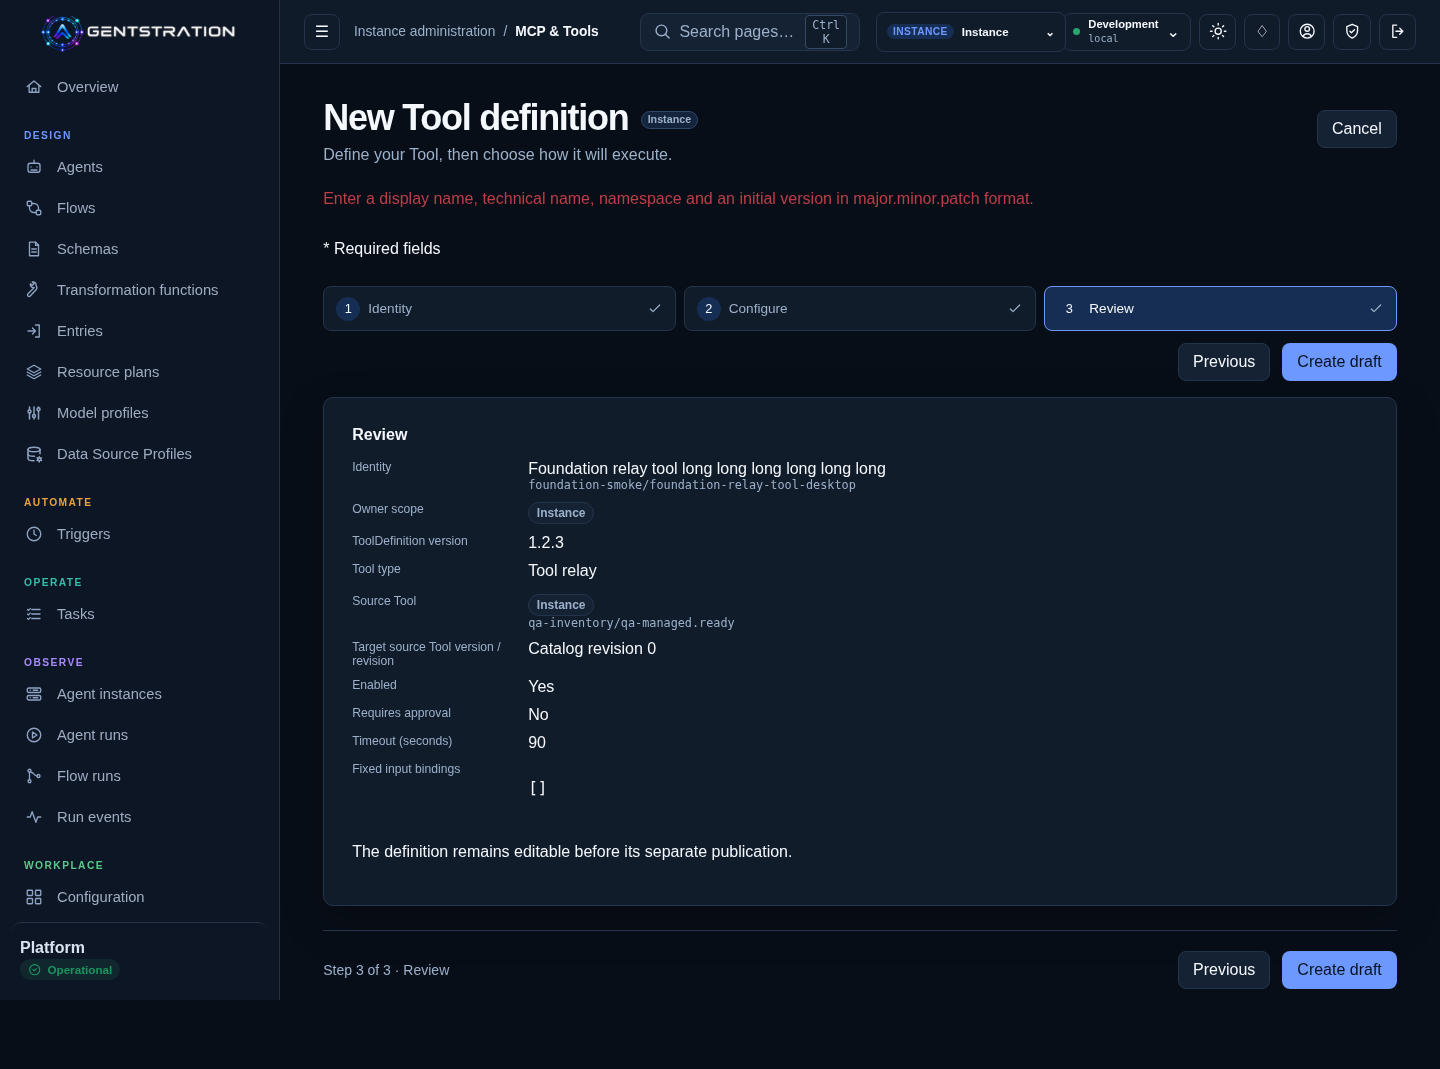
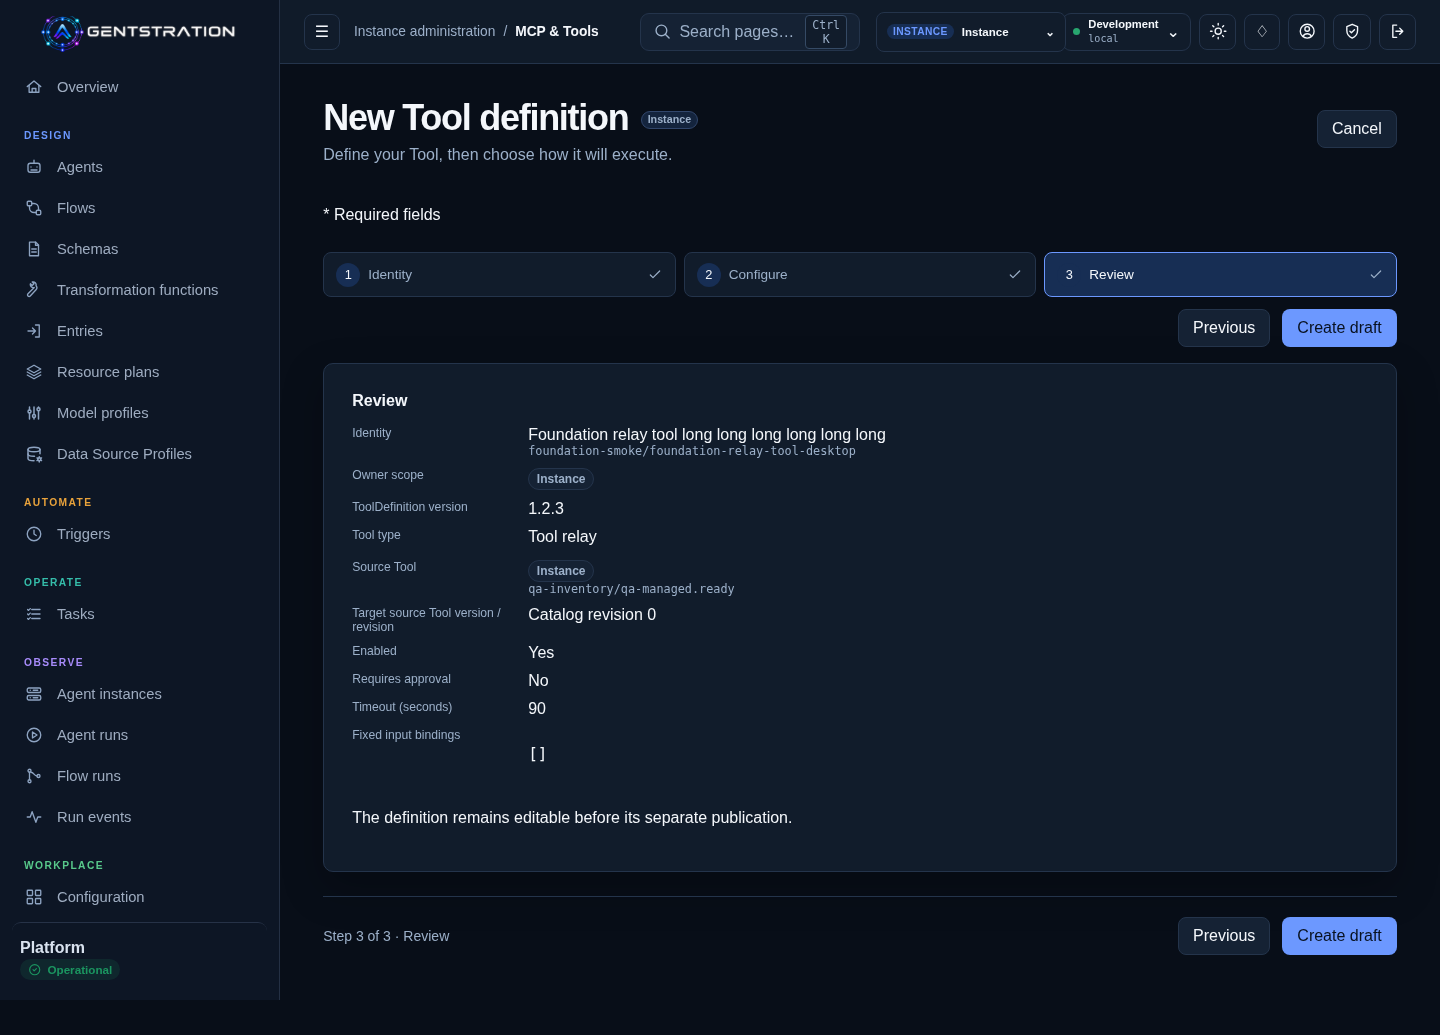
fix(console): clear repaired wizard identity feedback

diff --git a/tests/Agentstration.Console.Components.Tests/NewToolDefinitionTests.cs b/tests/Agentstration.Console.Components.Tests/NewToolDefinitionTests.cs
@@ -157,6 +157,7 @@ public sealed class NewToolDefinitionTests
         Assert.IsTrue(rendered.FindAll("[data-testid='tool-definition-identity']").Count == 1);
         Assert.HasCount(0, api.Requests);
         Identity(rendered);
+        Assert.HasCount(0, rendered.FindAll("[role='alert']"));
         rendered.Find("[data-testid='tool-definition-initial-version']").Change("2.01.0");
         await CreateAsync(rendered);
         Assert.AreEqual("identity", rendered.FindComponent<CreationWizard>().Instance.CurrentStepId);

diff --git a/docs/ux/evidence/resource-screen-foundation/new-tool-definition/README.md b/docs/ux/evidence/resource-screen-foundation/new-tool-definition/README.md
@@ -2,13 +2,13 @@
 
 Creation keeps its dedicated CreationWizard and standard ResourceIdentityFields. The Flow and Relay editors, freely reachable incomplete steps, retained inputs/dialogs, namespace/name/selected owner, exact published-Flow contracts and pinned Tool targets remain family-owned. No persisted-resource template, metadata write or automatic publication is invented.
 
-The native fieldset, wizard and both final command paths now require interactive rendering and resources/write. Known denied users receive the existing common permission notice; missing scope retains the existing scope feedback. The creation path cannot load configuration sources or write before interactivity. Context/ownership changes still clear the previous source/contracts and preserve the existing guarded navigation. The test administrator fixture now explicitly declares read/write permissions; the reader fixture has read only.
+The native fieldset, wizard and both final command paths now require interactive rendering and resources/write. Known denied users receive the existing common permission notice; missing scope retains the existing scope feedback. The creation path cannot load configuration sources or write before interactivity. Identity-validation feedback derives from the model’s current completeness after a final validation request, so correcting fields removes obsolete identity errors without clearing separate source/command failures. Context/ownership changes still clear the previous source/contracts and preserve the existing guarded navigation. The test administrator fixture now explicitly declares read/write permissions; the reader fixture has read only.
 
 Validation:
 
-- **33 focused NewToolDefinitionTests and ToolDefinitionConsoleTests pass**, including all three owner kinds for both implementations, context changes/loading, exact namespaces/source references, published schema inspection, retained relay bindings/dialogs and no-publication semantics, plus new prerender/reader guards. The asynchronous reader test waits for the actual rendered form rather than assuming context is synchronous; no timeout is increased or assertion removed.
+- **33 focused NewToolDefinitionTests and ToolDefinitionConsoleTests pass**, including all three owner kinds for both implementations, context changes/loading, exact namespaces/source references, published schema inspection, retained relay bindings/dialogs and no-publication semantics, plus new prerender/reader guards. Both EN/FR identity-repair assertions failed before the feedback correction and now pass; final browser probes also assert that no stale alert remains on Review. The asynchronous reader test waits for the actual rendered form rather than assuming context is synchronous; no timeout is increased or assertion removed.
 - Component/test and actual Web, Workplace and GovernedInventoryHost Release builds have zero warnings/errors. No shared product component or protected Agent source/style/translation changes; the preceding Agent regression evidence remains unchanged.
-- Both actual application probes pass: EN/dark desktop and FR/light native touch. Each creates a Flow-backed definition from the existing fixture's exact published namespace/owner/version and a Relay using the fixture Tool's exact UID/generation/namespace/owner. They retain fields across wizard navigation, return incomplete final submission to Identity, preserve the selected context in the destination and verify empty publication history through the API. Each capture asserts document width. [Exact tested source/actual-host hashes and results](source-proof.json).
+- Both actual application probes pass: EN/dark desktop and FR/light native touch. Each creates a Flow-backed definition from the existing fixture's exact published namespace/owner/version and a Relay using the fixture Tool's exact UID/generation/namespace/owner. They retain fields across wizard navigation, return incomplete final submission to Identity, preserve the selected context in the destination and verify empty publication history through the API. Each capture asserts document width. [Exact tested source/actual-host hashes and results](source-proof.json). The [initial adoption proof](initial-adoption-proof.json) is retained; displayed captures are from the final feedback-corrected campaign.
 
 The probes use the existing deterministic GovernedInventoryHost, ordinary Console/API commands and isolated fixture data. No external Tool execution, live service, fabricated production resource or new reusable journey is introduced. The deferred transverse scenario remains under open/blocked #1236. CI failures are not handled. Persisted ToolDefinitionEditor/ToolRelayEditor still require their own shared-template/form migration; this creation review does not count them as migrated.
 

diff --git a/docs/ux/resource-screen-foundation-reconciliation.md b/docs/ux/resource-screen-foundation-reconciliation.md
@@ -199,3 +199,5 @@ Transformation Function refresh follow-up: an unchanged ETag/generation no longe
 - Interactivity/resources-write guards lock the native form, wizard, source preparation and final commands. A known reader gets the shared permission notice; scope feedback and context-change guards remain distinct. The administrator test fixture declares its permissions explicitly.
 - All 33 focused creation/definition cases, actual Release host builds and both real desktop/touch probes pass. Both implementations create in the exact namespace/owner/context and leave publication history empty. [Real captures and exact source/host hashes](evidence/resource-screen-foundation/new-tool-definition/README.md). No shared/protected Agent product files change; no CI failure handled.
 - Eleven Resource adapters, two specialized surfaces and two creations are reconciled, Agent remains protected, and **35 other route-owning components** require their individual pass. Persisted ToolDefinitionEditor and delegated ToolRelayEditor remain pending; preserving their creation fragments does not count their detail-layout migration as complete.
+
+Tool Definition creation feedback follow-up: final-attempt identity errors now track the current model completeness and disappear when corrected; source/command failures remain separate. Both EN/FR assertions failed before the fix and pass afterward; all 33 focused cases and both actual desktop/touch probes pass again, including no stale alert on Review for either implementation. Captures/source proof are refreshed, initial proof retained. No shared product or protected Agent files change; adoption counts and deferred-scenario gate remain unchanged.
